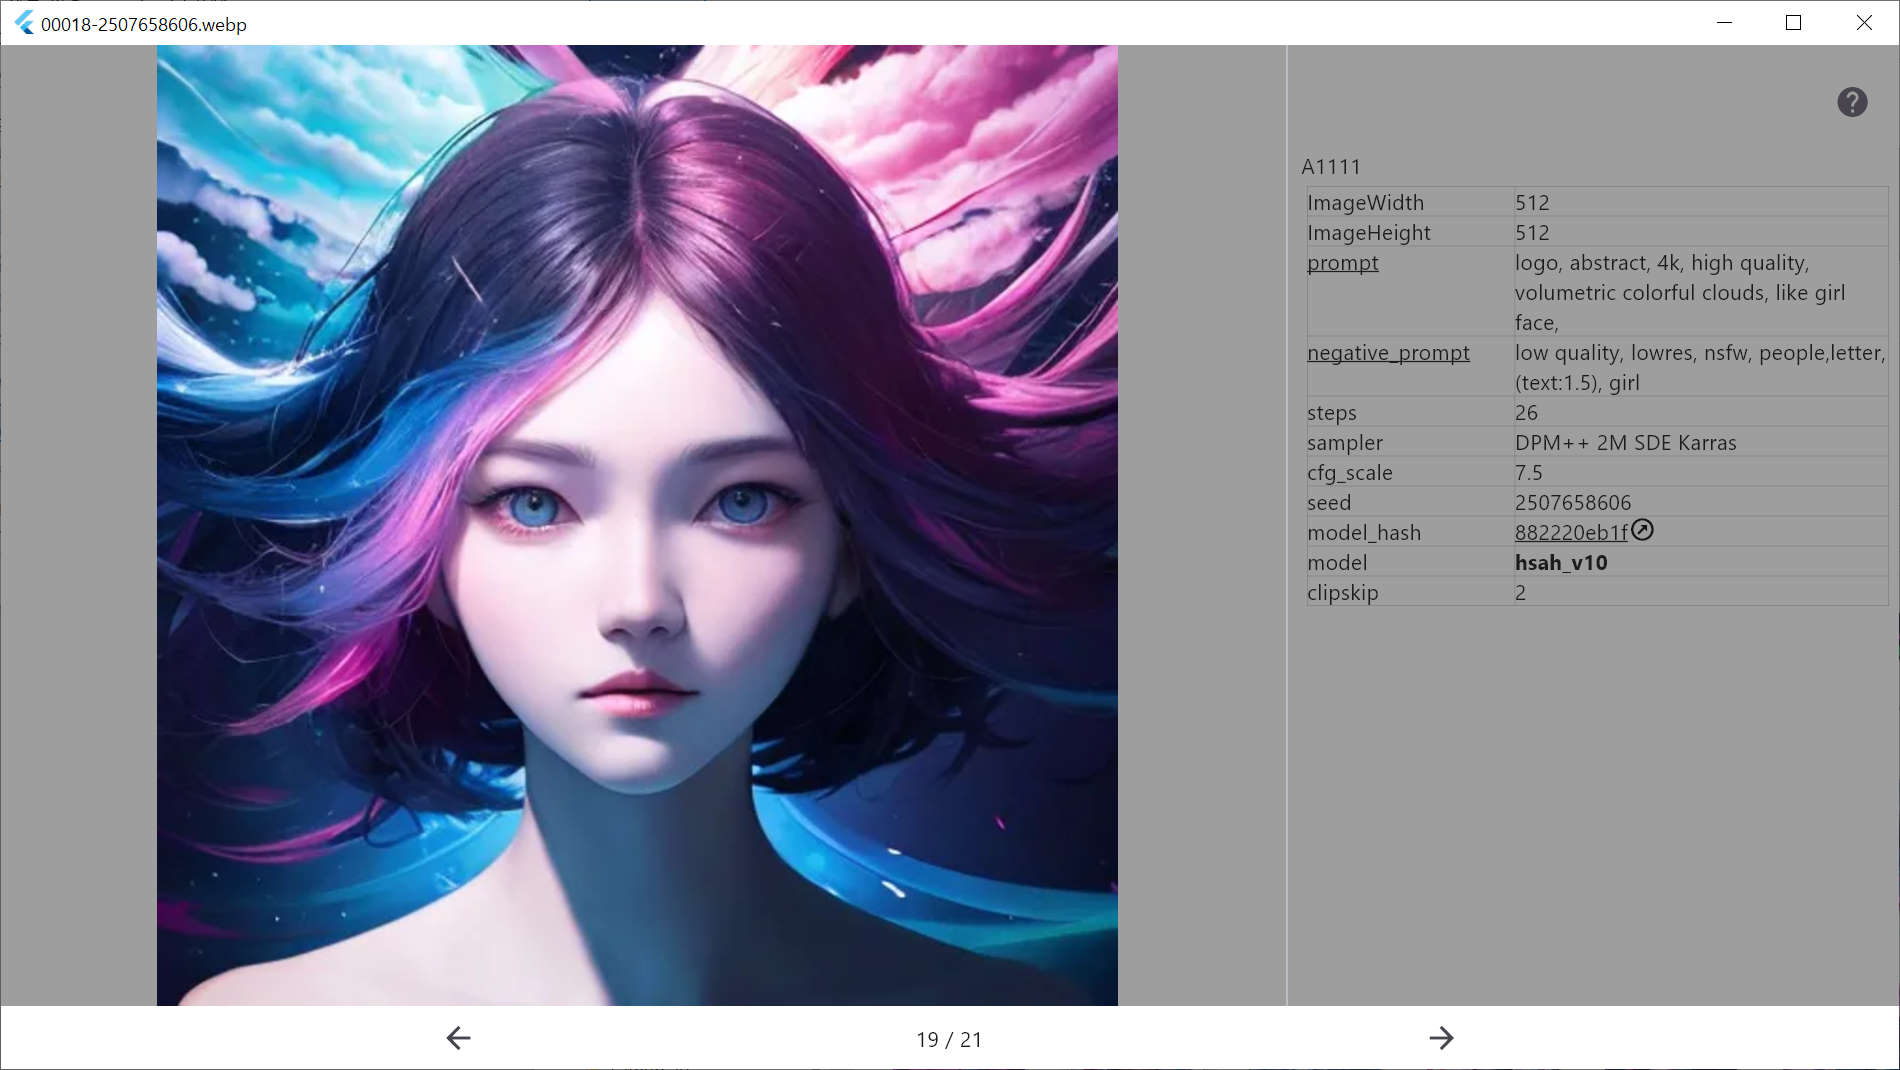
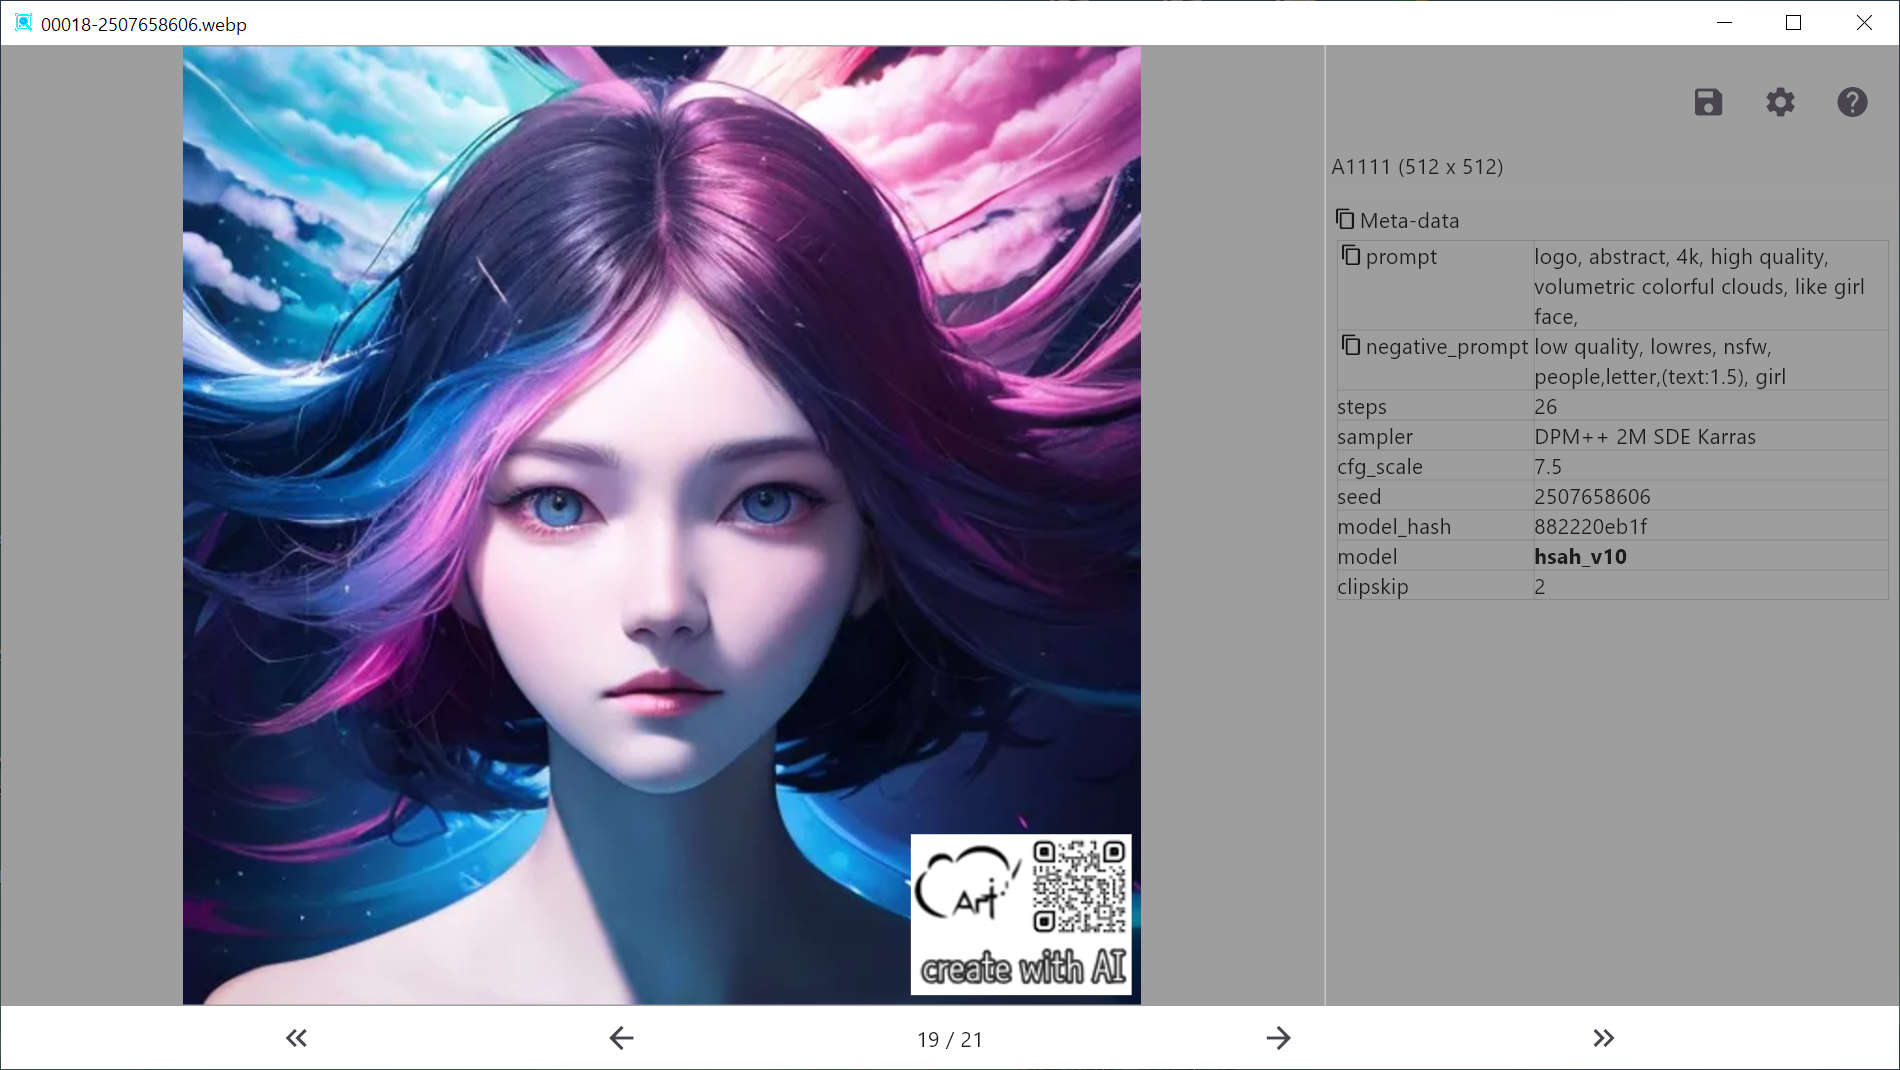
change readme and screenshot

diff --git a/README-KR.md b/README-KR.md
@@ -7,16 +7,21 @@
 이 프로그램은 이미지와 프롬프트를 포함한 정보를 보여줍니다.
 정보를 보기 위해 [exiftool](https://exiftool.org)이 필요합니다
 
+이 프로그램은 설정 및 기타 저장을 위해 Documents 디렉토리 아래에 "sdviewer-alongthecloud" 디렉토리를 생성합니다.
+
 ## 기능
 
 * 스테이블 디퓨전으로 생성된 이미지 (png,jpg,jpeg,webp) 를 보여줍니다
 * exiftool을 사용하여 프롬프트, 네거티브 프롬프트 등을 보여줍니다
 * 클릭으로 프롬프트, 네거티브 프롬프트를 클립보드에 복사
 * 같은 디렉토리의 이전/이후 파일로 이동할 수 있습니다. (맥에서는 디렉토리를 드래그 드랍 했을 때만 가능)
+* 이미지에 Watermark 이미지를 붙여 특정 폴더(Documents 폴더 아래)에 저장할 수 있습니다
 
 지원되는 생성 이미지
  - [x] A1111
  - [x] InvokeAI
+
+자세한 것은 프로그램 내의 도움말을 보세요
 
 ## 실행, 빌드
 

diff --git a/README.md b/README.md
@@ -9,16 +9,21 @@ A Flutter-based stable diffusion image viewer for displaying images and informat
 This program show image and information(include prompts, negative prompts, etc)
 To look meta information need to [exiftool](https://exiftool.org)
 
+This program creates "sdviewer-alongthecloud" directory under the Documents directory for storing settings and etc.
+
 ## Features
 
-* Shows images (png,jpg,jpeg,webp) created with stable diffusion 
+* Shows images (png,jpg,jpeg,webp) created with stable diffusion
 * Shows prompts, negative prompts, etc. if exiftool is available
 * Prompts and negative prompts can be copied to clipboard with one click
 * Navigate to previous/next image in the same directory (on Mac, only when dragging and dropping directories)
+* You can attach a watermark image to the image and save it to a specific folder
 
 Supported
  - [x] A1111
  - [x] InvokeAI
+
+for more information, see in-program help
 
 ## Run and Build
 
